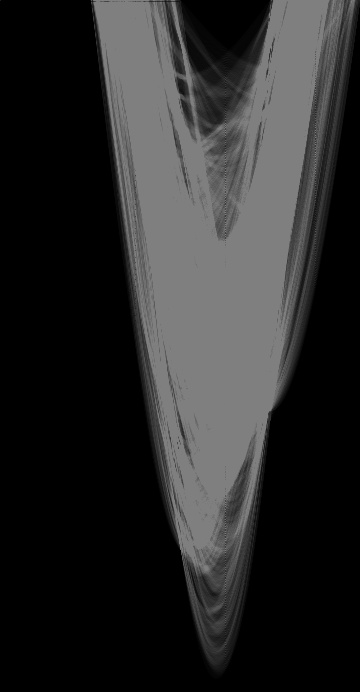
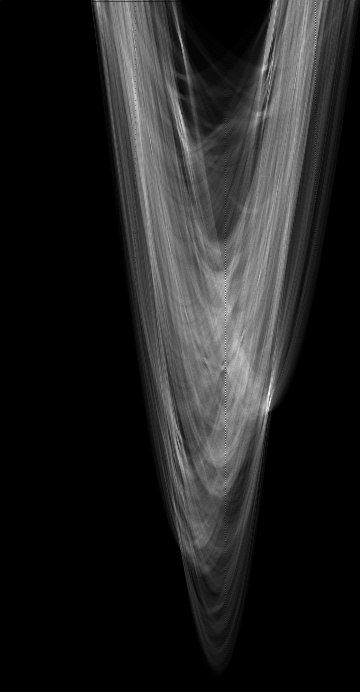
I am good at sins

Changed region(s): [[0.2444, 0.0, 1.0, 0.9408]]

diff --git a/dartboard.cpp b/dartboard.cpp
@@ -280,6 +280,7 @@ void houghLines(Mat &sobelMag, Mat &sobelGrad, Mat &lines, Mat &houghSpaceLines)
 			houghSpace[i][j] = 0;
 		}
 	}
+	int highestVote = 0;
 	for(int i = 0; i < sobelGrad.cols; i++)
 	{
 		for(int j = 0; j < sobelGrad.rows; j++)
@@ -320,6 +321,9 @@ void houghLines(Mat &sobelMag, Mat &sobelGrad, Mat &lines, Mat &houghSpaceLines)
 						}
 						//printf("%d\n",rho);
 						houghSpace[rho][index] += 1;
+						if(houghSpace[rho][index] > highestVote){
+							highestVote = houghSpace[rho][index];
+						}
 
 					//}
 				}
@@ -332,6 +336,8 @@ void houghLines(Mat &sobelMag, Mat &sobelGrad, Mat &lines, Mat &houghSpaceLines)
 		{
 			//int desscaledAngle = j/5;
 			int imval = houghSpace[i][j/*desscaledAngle*/];
+			imval = imval * 255/highestVote;
+			//printf("%d",imval);
 			if (imval > 255)
 			{
 				imval = 255;
